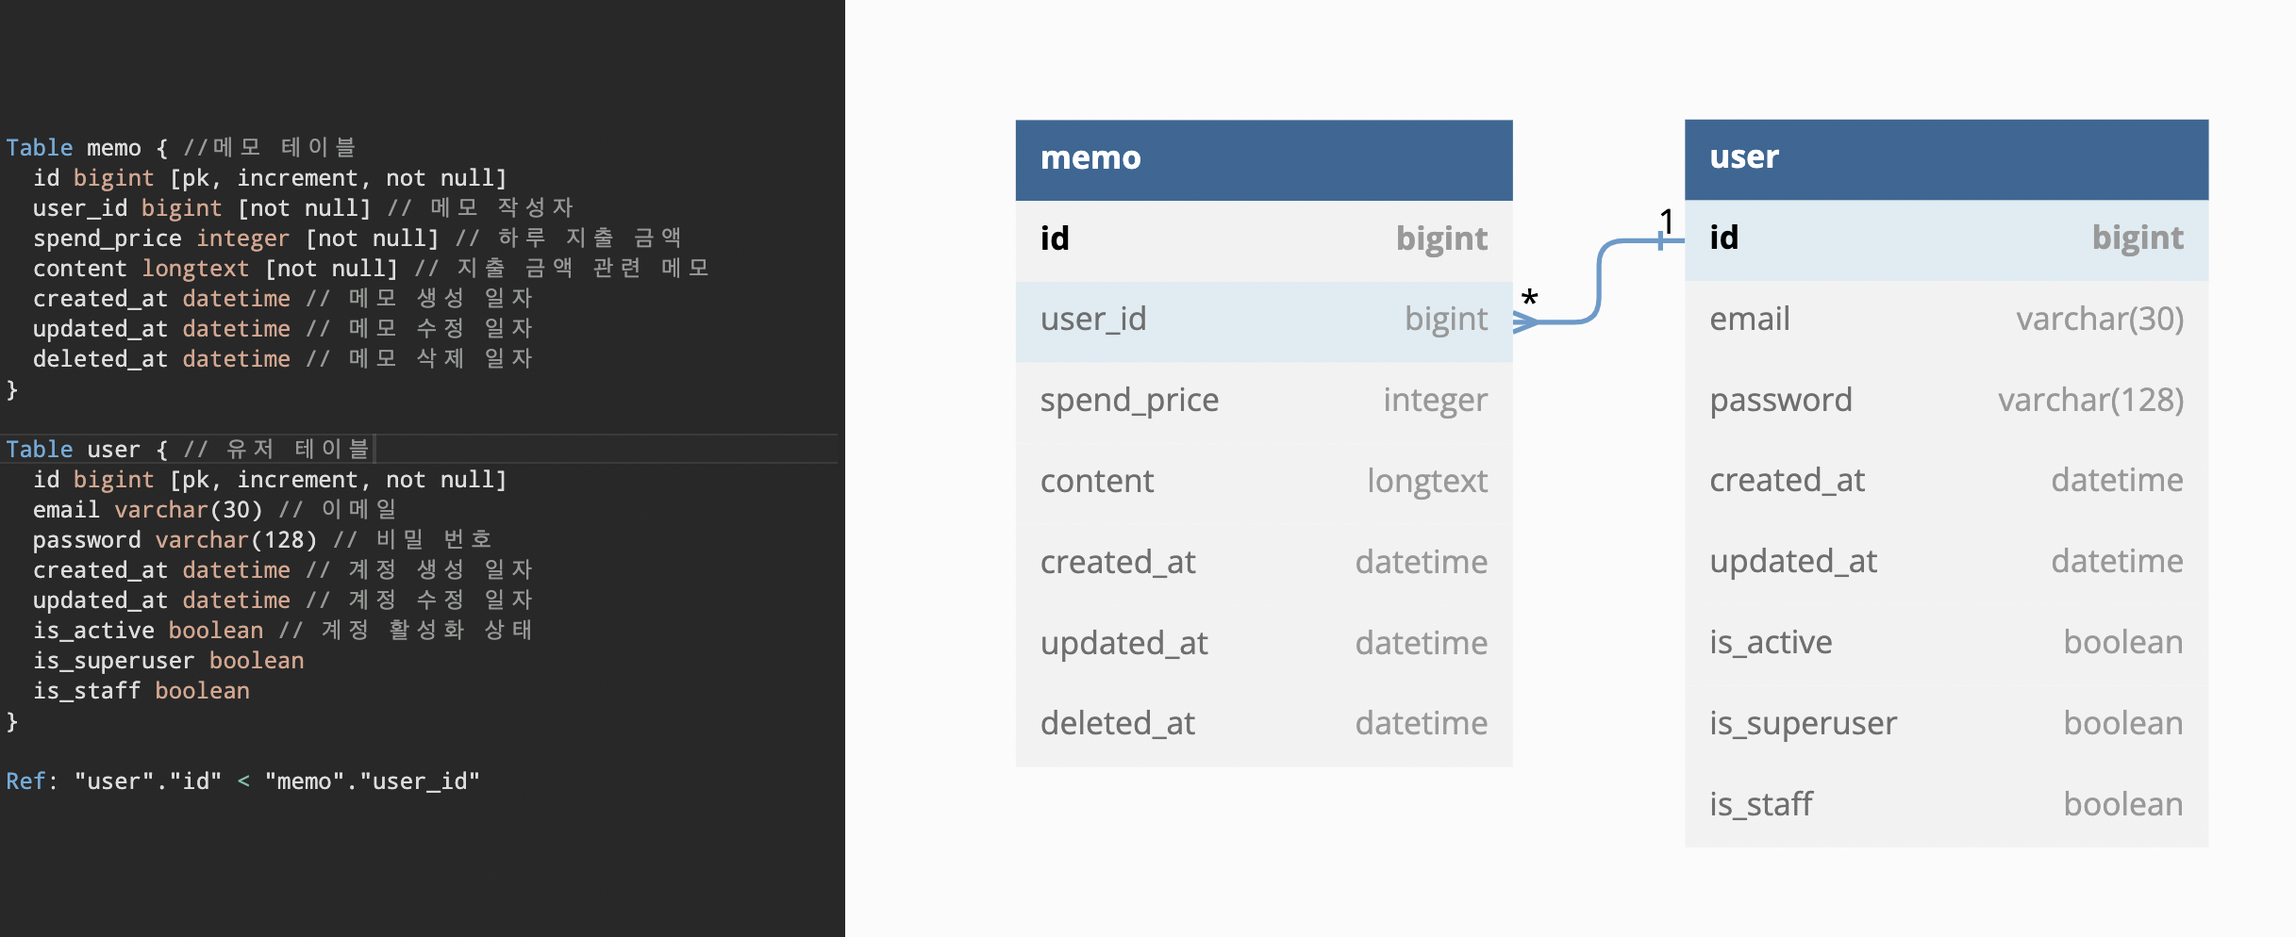
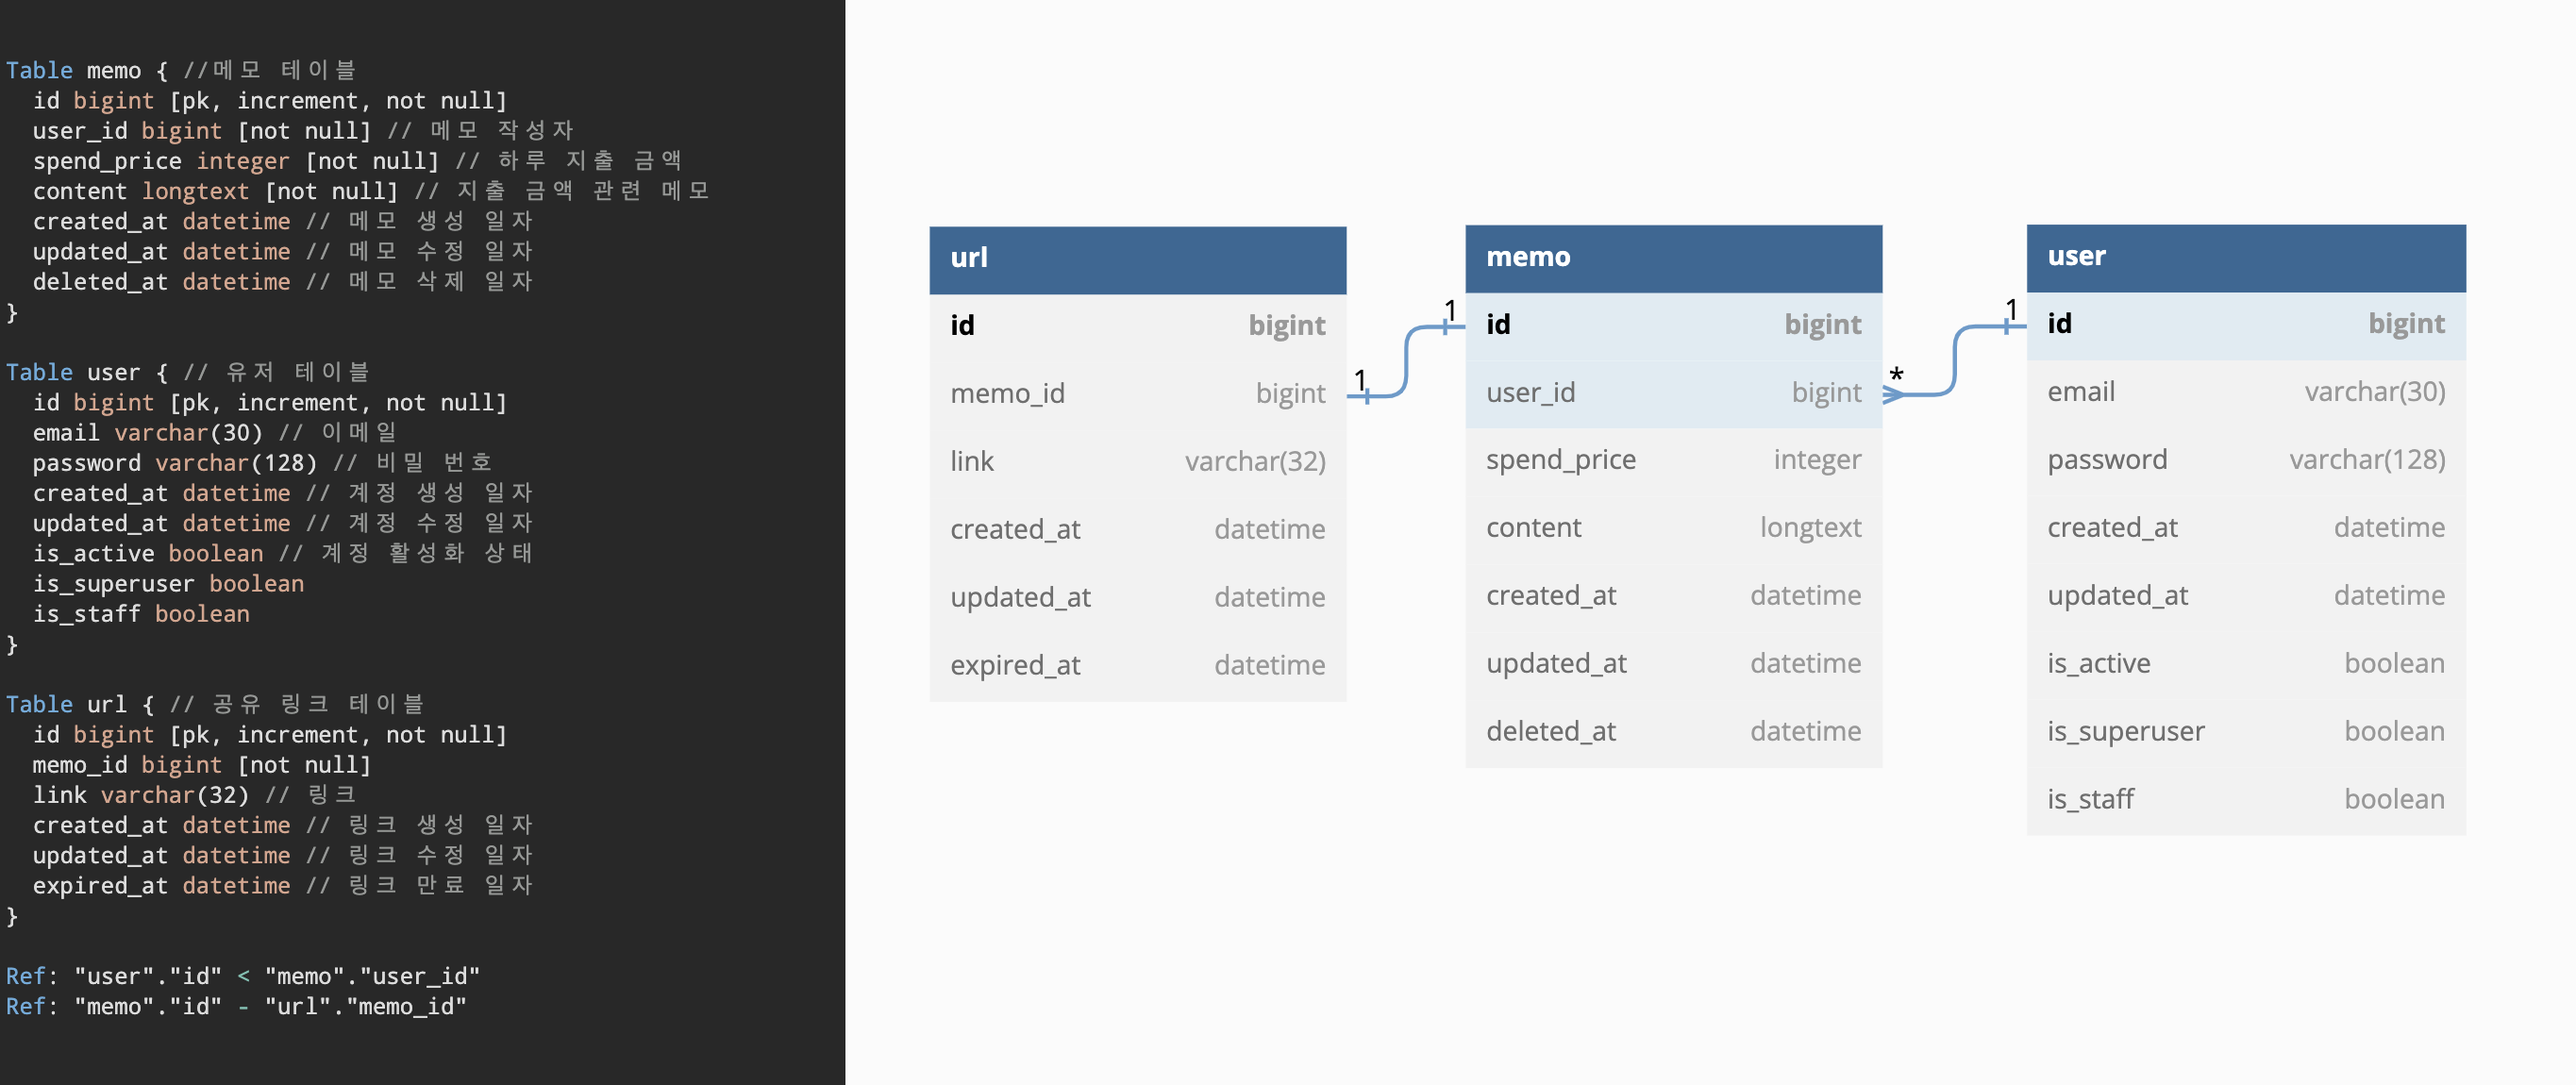
Docs: readme erd 업데이트 및 기능 설명 추가

diff --git a/README.md b/README.md
@@ -111,6 +111,15 @@ python manage.py test
   - 해당 `memo_id`가 없을 경우 `NOT FOUND`를 반환합니다.
   - 해당 메모가 자신의 것이 아닌 경우 `FORBIDDEN`을 반환합니다.
   - 삭제시 메모의 `deleted_at` 필드에 현재 날짜와 시간을 넣어줍니다.
-- **[메모 공유]**
+- **[메모 공유 링크 생성]**
+  - [POST] `/account_books/share/memos/{memo_id}`
+  - 인증된 유저에 한해 자신의 메모를 공유하기 위한 링크를 생성할 수 있습니다.
+  - 해당 `memo_id`가 없을 경우 `NOT FOUND`를 반환합니다.
+  - 해당 메모가 자신의 것이 아닌 경우 `FORBIDDEN`을 반환합니다.
+  - 공유 링크 생성 시간을 기준으로 15분뒤 만료됩니다.
+- **[메모 공유 링크 접속]**
+  - [GET] `/{shared_link}`
+  - 유효한 공유된 링크를 가지고 있는 누구나 해당 메모의 내용을 볼 수 있습니다.
+  - 공유된 링크가 만료됐을 때 `NOT FOUND`를 반환합니다.
 
 
